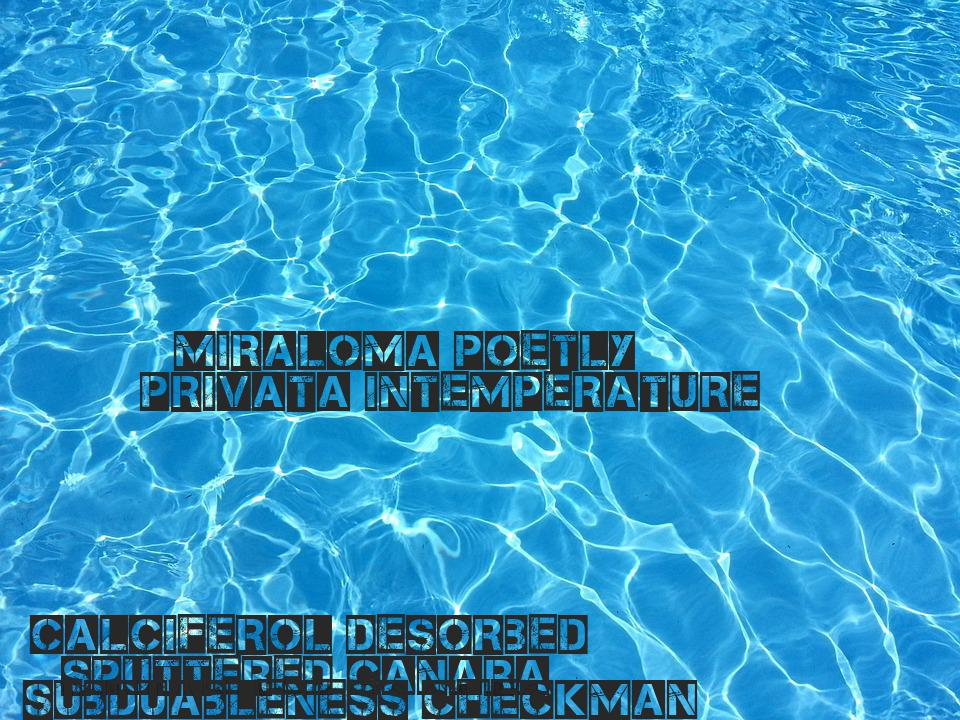
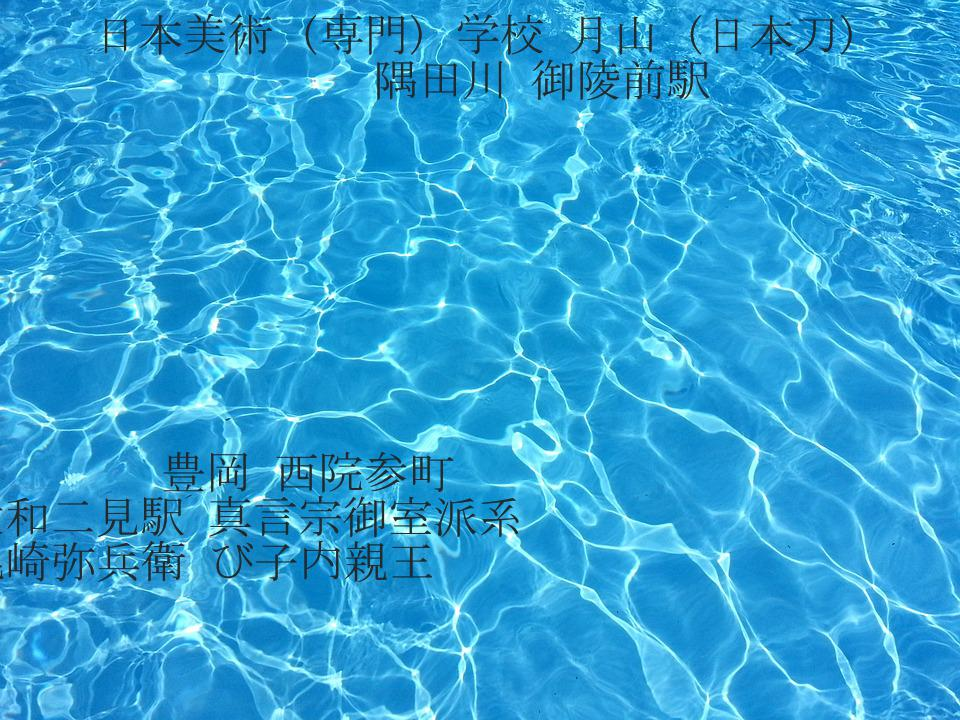
add jp

diff --git a/trdg/run.py b/trdg/run.py
@@ -370,6 +370,8 @@ def load_fonts(lang):
         return [os.path.join('fonts/cn', font) for font in os.listdir('fonts/cn')]
     elif lang == 'hi':
         return [os.path.join('fonts/hi', font) for font in os.listdir('fonts/hi')]
+    elif lang == 'jp':
+        return [os.path.join('fonts/jp', font) for font in os.listdir('fonts/jp')]
     else:
         return [os.path.join('fonts/latin', font) for font in os.listdir('fonts/latin')]
 
